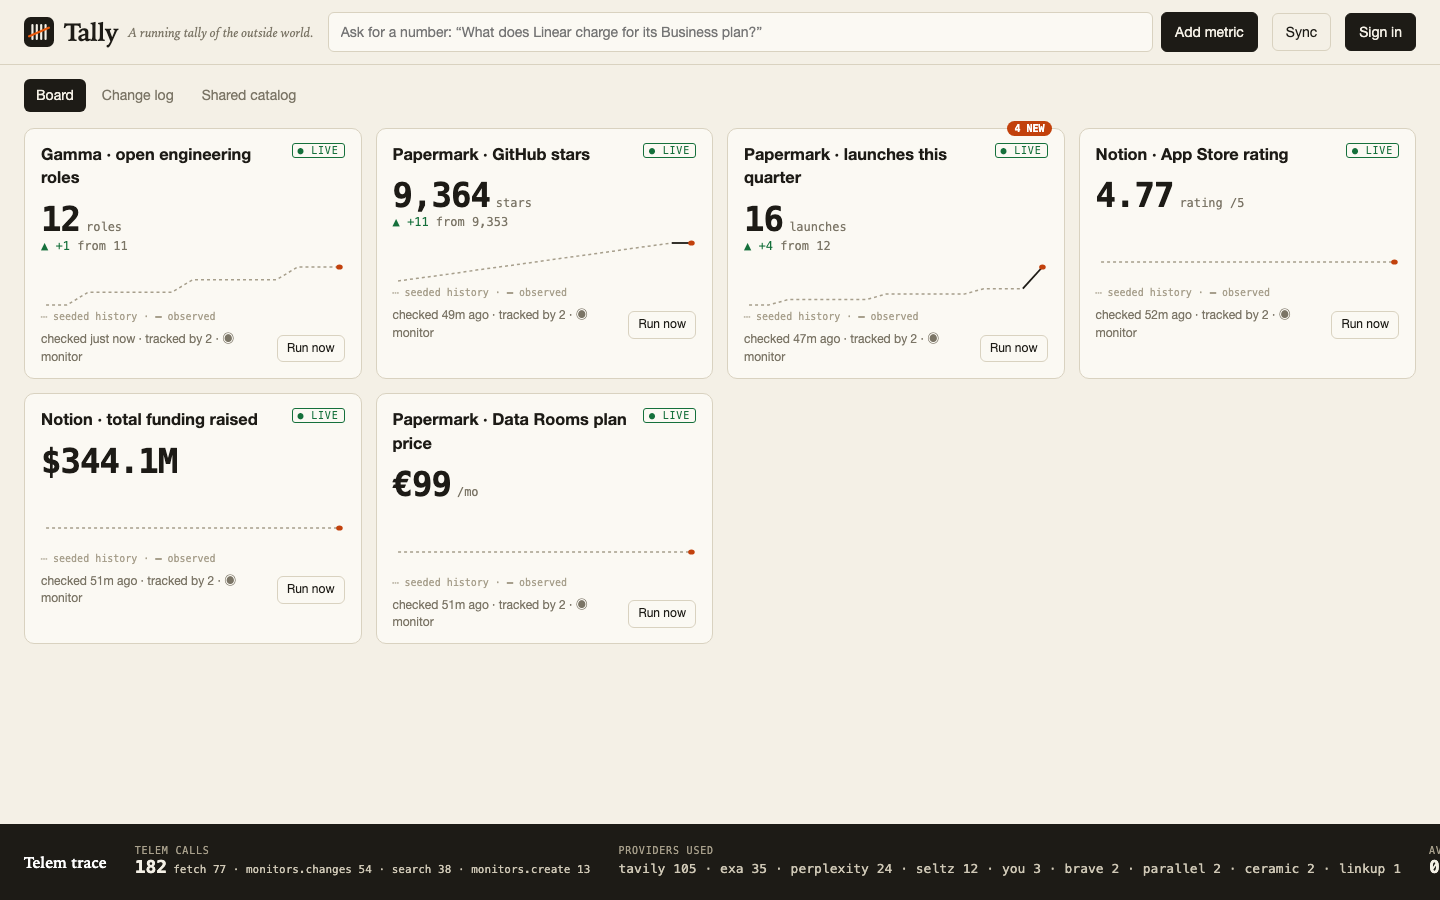
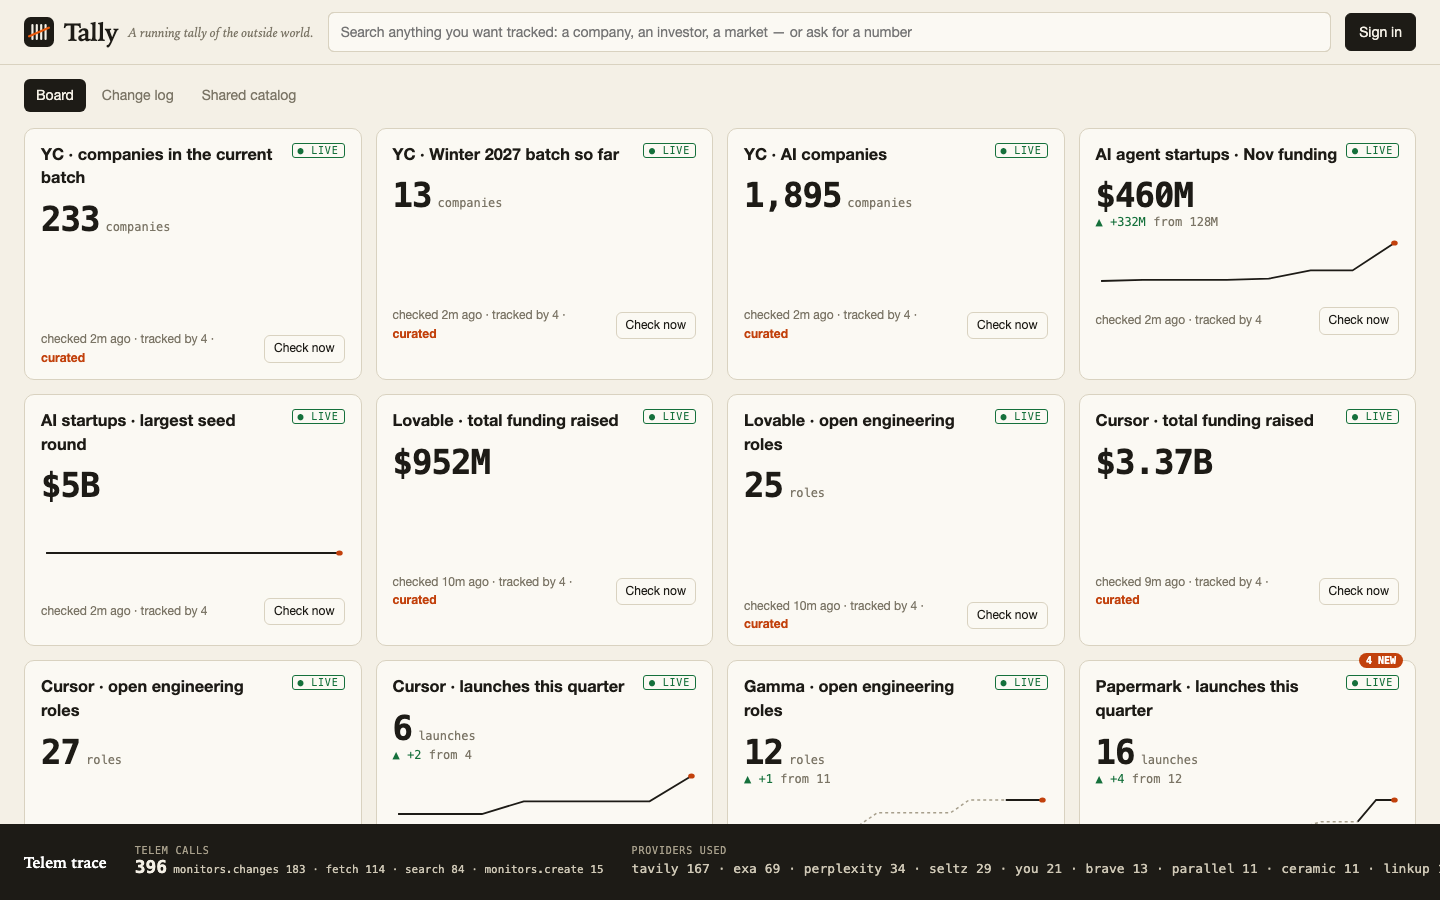
Investor deck, featured board with YC, aggregates and hiring signals

diff --git a/static/deck.html b/static/deck.html
@@ -52,65 +52,64 @@ p.big{font-size:27px;line-height:1.4;color:#4a463c;max-width:30em;margin:0}
 <body>
 <div id="stage">
 
-<section class="slide" data-notes="0:00 — Hi, I'm Verky. This is Tally: a running tally of the outside world.">
-  <div style="margin-top:110px"><span class="marks"><i></i><i></i><i></i><i></i></span>
+<section class="slide" data-notes="0:00 — This is Tally: a running tally of the outside world. One shared, always-current catalog of numbers about companies and markets.">
+  <div style="margin-top:100px"><span class="marks"><i></i><i></i><i></i><i></i></span>
   <h1>Tally</h1>
   <p class="big" style="margin-top:22px;font:italic 36px var(--serif);color:var(--ink)">A running tally of the outside world.</p>
-  <p class="big" style="margin-top:34px">Ask for a number about a company. Get a live tile, with evidence, that everyone can reuse.</p></div>
+  <p class="big" style="margin-top:34px">One shared, always-current catalog of numbers about companies and markets. Ask once; everyone who cares gets it, with the evidence.</p></div>
   <div class="foot"><span>SearchHack · Nov 14, 2026</span><span>Built on Telem AI + Tavily</span></div>
 </section>
 
-<section class="slide" data-notes="0:10 — Every founder watches competitors by hand: pricing pages, job boards, changelogs, app stores. Tabs and a stale spreadsheet. Scrapers break when a page changes, and counting things from search doesn't work, because search results change every run.">
+<section class="slide" data-notes="0:10 — If you invest at pre-seed, your edge is noticing early: who is hiring, who shipped, who just raised, how big the new YC batch is. Today that is tabs, newsletters and a spreadsheet. Founders do the same for competitors. The tools that exist alert one user about one page, and they are known for false alarms.">
   <div class="eyebrow">The problem</div>
-  <h2>Founders track the outside world <em>by hand</em>.</h2>
+  <h2>Investors and founders track the outside world <em>by hand</em>.</h2>
   <div class="cols c3">
-    <div class="card"><span class="n">Today</span><b>Twelve tabs and a spreadsheet</b><p>Pricing pages, job boards, changelogs, app stores. Checked when someone remembers. Stale by Friday.</p></div>
-    <div class="card"><span class="n">Scrapers</span><b>Break on every redesign</b><p>One selector per page, per number. Nobody maintains them, and they can't count things spread across the web.</p></div>
-    <div class="card"><span class="n">Search</span><b>Results change run to run</b><p>“How many open roles?” is not the length of one result list. Ask twice, get two answers.</p></div>
+    <div class="card"><span class="n">Angels and pre-seed funds</span><b>Pipeline and portfolio in tabs</b><p>Who is hiring, who shipped, who raised, how the new batch looks. Checked when someone remembers.</p></div>
+    <div class="card"><span class="n">Founders</span><b>Competitors in a spreadsheet</b><p>Prices, open roles, launches, ratings. Stale by Friday, and nobody trusts the last edit.</p></div>
+    <div class="card"><span class="n">Today's tools</span><b>One page, one user, false alarms</b><p>Scheduled AI tasks and page watchers re-find the same number for every user, and cannot count or add things up.</p></div>
   </div>
   <div class="foot"><span>Tally</span><span>2</span></div>
 </section>
 
-<section class="slide" data-notes="0:30 — With Tally you type a question and get a tile: the value, the change, the history, and when it was last checked. This board is live.">
+<section class="slide" data-notes="0:30 — With Tally you type anything: a company, an accelerator, a question. You get tiles with the value, the change, the history and when it was last checked. This board is live.">
   <div class="eyebrow">The product</div>
-  <h2>Type a question. Get a tile that stays current.</h2>
-  <div class="shot"><img src="/static/img/board.png" alt="Tally board with six live tiles"></div>
-  <div class="foot"><span>Live board · six tiles, each re-checked hourly by a Telem monitor</span><span>3</span></div>
+  <h2>Type anything. Get numbers that stay current.</h2>
+  <div class="shot"><img src="/static/img/board.png" alt="Tally board"></div>
+  <div class="foot"><span>Live board · every tile opens to its source, its recipe and its Telem trace</span><span>3</span></div>
 </section>
 
-<section class="slide" data-notes="0:45 — Two kinds of metric. Direct: one value read from one page, stored with the quote. Count: a ledger of entries, each stored once by its URL. The count is the size of the ledger, so a new entry is a change you can see and open. If the value isn't on the page, the tile says no value yet. We never guess.">
+<section class="slide" data-notes="0:45 — Every number is a recipe: gather evidence, read fields, reduce to one number. Read one value. Count a ledger of entries. Or add up, average or take the largest across many entries. These three are live from the catalog right now. If a value is not on the page, the tile says no value yet. We never guess.">
   <div class="eyebrow">What's new here</div>
-  <h2>Counts come from a <em>ledger</em>, not a result list.</h2>
-  <div class="cols c2">
-    <div class="card"><span class="n">direct</span><b>One value, one source, one quote</b><p>A price, a rating, a star count, a funding total.</p>
-      <div class="num" style="margin-top:22px" id="d-val">9,364<small>stars</small></div><div class="lab">source: api.github.com · read via Telem Fetch</div></div>
-    <div class="card"><span class="n">count</span><b>Entries stored once, by URL</b><p>Open roles, product launches. A new entry is a visible change.</p>
-      <ul class="ledger"><li class="new">+ AI Engineer &nbsp;<b style="display:inline;font:700 16px var(--mono);color:var(--accent)">NEW</b></li><li>Software Engineer, Platform</li><li>Site Reliability Engineer</li><li style="color:var(--mute)">… 10 more, each with its link</li></ul></div>
+  <h2>Every number is a <em>recipe</em>: gather, read, reduce.</h2>
+  <div class="cols c3">
+    <div class="card"><span class="n">read one value</span><b>YC companies in the current batch</b><div class="num" style="margin-top:18px" data-m="YC · companies in the current batch">—</div><div class="lab">from the open YC directory, by a curated skill</div></div>
+    <div class="card"><span class="n">count a ledger</span><b>Cursor open engineering roles</b><div class="num" style="margin-top:18px" data-m="Cursor · open engineering roles">—</div><div class="lab">one entry per posting URL; a new one is a visible change</div></div>
+    <div class="card"><span class="n">add up across entries</span><b>AI agent startup funding, this month</b><div class="num" style="margin-top:18px" data-m="AI agent startups · Nov funding">—</div><div class="lab">sum of announced rounds, each with its link</div></div>
   </div>
-  <div class="foot"><span>If the value isn't on the page, the tile says “no value yet”. Tally never guesses.</span><span>4</span></div>
+  <div class="foot"><span>Counts and sums come from a stored ledger, never from the size of one search result. No value on the page means “no value yet”.</span><span>4</span></div>
 </section>
 
-<section class="slide" data-notes="1:00 — LIVE DEMO, about 80 seconds. (1) Board for user A. (2) Switch to user B, ask the Gamma roles question in different words: matched, history included, tracked by 2, zero new Telem calls. (3) Ask a brand-new question: Telem finds the source. (4) Run now on Gamma roles: 12 becomes 13, the new entry is highlighted. (5) Sync, open the change log: this run, plus what the Telem monitors found. (6) Trace panel.">
+<section class="slide" data-notes="1:00 — LIVE DEMO, about 80 seconds. (1) My board: YC batch, sector funding, hiring at companies I watch. (2) Type two letters, Tab, Enter: a company pack arrives at once because the catalog already has it. (3) Open a tile: source, recipe, Telem trace. (4) Check now on Gamma roles: 12 becomes 13, new entry highlighted. (5) Change log: what Telem monitors found on their own. (6) Trace panel.">
   <div class="eyebrow">Live demo</div>
   <h2>Six steps, eighty seconds.</h2>
   <div class="cols c3">
-    <div class="card"><span class="n">1 · Board</span><p>Six live tiles for founder A.</p></div>
-    <div class="card"><span class="n">2 · Match</span><p>Founder B asks the same thing in other words. Instant tile, full history, “tracked by 2”.</p></div>
-    <div class="card"><span class="n">3 · Create</span><p>A new question. Telem finds the source and the tile appears.</p></div>
-    <div class="card"><span class="n">4 · Run now</span><p>The count goes from 12 to 13. The new entry is highlighted.</p></div>
-    <div class="card"><span class="n">5 · Change log</span><p>That change, plus what Telem monitors found today.</p></div>
+    <div class="card"><span class="n">1 · Board</span><p>An investor's board: batch size, sector funding, hiring and launches.</p></div>
+    <div class="card"><span class="n">2 · One box</span><p>Type two letters. The catalog answers at once; a whole company pack is one click.</p></div>
+    <div class="card"><span class="n">3 · Open method</span><p>Source, recipe and the Telem trace behind any number.</p></div>
+    <div class="card"><span class="n">4 · Check now</span><p>A count goes from 12 to 13. The new entry is highlighted with its link.</p></div>
+    <div class="card"><span class="n">5 · Change log</span><p>What Telem monitors found today, without anyone pressing a button.</p></div>
     <div class="card"><span class="n">6 · Trace</span><p>Providers, latency, estimated cost, calls saved by sharing.</p></div>
   </div>
   <div class="foot"><span class="url" id="demo-url">/app</span><span>5</span></div>
 </section>
 
-<section class="slide" data-notes="2:20 — Telem is the engine. Search finds sources and entries, auto-routed across providers with Tavily pinned on every entry search. Fetch reads the pages. Monitors re-check hourly and we page their change feed into the change log. These numbers are live from the app's trace log.">
+<section class="slide" data-notes="2:20 — Telem is the engine. Search finds sources and entries, auto-routed across providers with Tavily pinned on every entry search. Fetch reads the pages. Monitors re-check hourly and the server reads their change feed every minute. These numbers are live from the trace log.">
   <div class="eyebrow">Telem is the engine</div>
   <h2>Search finds it. Fetch reads it. Monitors watch it.</h2>
   <div class="flow">
     <div class="card"><span class="n">Telem Search</span><p>Auto-routing picks providers per query. Tavily pinned on every entry search.</p></div>
-    <div class="card"><span class="n">Telem Fetch</span><p>Reads the source pages. Claude extracts the value and the quote.</p></div>
-    <div class="card"><span class="n">Telem Monitors</span><p>Hourly agent per metric. Its change feed fills the change log.</p></div>
+    <div class="card"><span class="n">Telem Fetch</span><p>Reads the source pages. Claude extracts values and entries, guided by a source skill.</p></div>
+    <div class="card"><span class="n">Telem Monitors</span><p>Hourly agent per metric. Its change feed fills the change log by itself.</p></div>
   </div>
   <div class="cols c4">
     <div class="card dark"><div class="num" id="t-calls">—</div><div class="lab">Telem calls</div></div>
@@ -121,24 +120,35 @@ p.big{font-size:27px;line-height:1.4;color:#4a463c;max-width:30em;margin:0}
   <div class="foot"><span>Numbers read live from the app's trace log. Cost is estimated from provider list prices.</span><span>6</span></div>
 </section>
 
-<section class="slide" data-notes="2:40 — The business is the shared catalog. Ten founders tracking the same price cost one refresh, not ten. Every question makes the catalog more complete and each user cheaper to serve. Exploring is free; adding and tracking is the paid plan.">
-  <div class="eyebrow">Why this is a company</div>
-  <h2>The catalog is the business: <em>one refresh</em> serves everyone.</h2>
+<section class="slide" data-notes="2:35 — Why this is a company. The catalog compounds. Every question makes it more complete, every follower makes each number cheaper, and history only exists for whoever started tracking first. Feedback from followers fixes the shared recipe, so accuracy improves with use.">
+  <div class="eyebrow">Why this compounds</div>
+  <h2>The catalog is the asset: <em>one refresh</em> serves everyone.</h2>
   <div class="cols c3">
-    <div class="card dark"><div class="num" id="v-metrics">—</div><div class="lab">metrics in the shared catalog</div><p style="margin-top:14px">Ask once, anyone can reuse it with its history.</p></div>
-    <div class="card dark"><div class="num" id="v-saved">—</div><div class="lab">Telem calls saved by sharing</div><p style="margin-top:14px">Followers beyond the first ride on the same refresh.</p></div>
-    <div class="card"><span class="n">Model</span><b>Free to explore, pay to track</b><p>Cost per user falls as the catalog grows. The ledgers and histories are data nobody else has.</p></div>
+    <div class="card dark"><div class="num" id="v-metrics">—</div><div class="lab">metrics in the shared catalog, day one</div><p style="margin-top:14px">Ask once; anyone reuses it with its history.</p></div>
+    <div class="card dark"><div class="num" id="v-saved">—</div><div class="lab">Telem calls saved by sharing</div><p style="margin-top:14px">Cost per user falls as followers per metric rise.</p></div>
+    <div class="card"><span class="n">Moat</span><b>History and curation</b><p>A time series cannot be bought later. Follower feedback corrects the shared recipe, so the catalog gets more accurate with use.</p></div>
   </div>
-  <div class="foot"><span>Next: alerts, team boards, an API for agents that need a trusted number.</span><span>7</span></div>
+  <div class="foot"><span>Per-user alert tools pay the full search cost for every user and keep no shared history.</span><span>7</span></div>
 </section>
 
-<section class="slide" data-notes="2:55 — That's Tally. Ask for a number, keep it current. Thank you.">
-  <div style="margin-top:130px"><span class="marks"><i></i><i></i><i></i><i></i></span>
+<section class="slide" data-notes="2:45 — Who pays and how we reach them. Angels, scouts and pre-seed funds first; founders and sales teams next. The recipes are open source, which is distribution; the product is the hosted runtime: always-on refresh, the shared catalog, the history. It is live today with Google sign-in and Stripe.">
+  <div class="eyebrow">Market and model</div>
+  <h2>Open recipes for reach. A hosted runtime to pay for.</h2>
+  <div class="cols c3">
+    <div class="card"><span class="n">Who</span><b>People paid to notice early</b><p>Angels, scouts and pre-seed funds watching pipeline and portfolio. Then founders on competitors, and sales on accounts.</p></div>
+    <div class="card"><span class="n">Model</span><b>Free to read, Pro for live</b><p>Anyone searches the catalog. $19 a month makes every number live and creation unlimited. Team boards and an API come next.</p></div>
+    <div class="card"><span class="n">Go to market</span><b>Open source, MIT</b><p>Recipes and skills are public and forkable. The runtime, the catalog and its history are the product. Live today with sign-in and billing.</p></div>
+  </div>
+  <div class="foot"><span>tallycatalog.com · github.com/verkyyi/tally</span><span>8</span></div>
+</section>
+
+<section class="slide" data-notes="2:55 — That's Tally. Ask for a number, keep it current. We are looking for angels and pre-seed funds as design partners. Thank you.">
+  <div style="margin-top:110px"><span class="marks"><i></i><i></i><i></i><i></i></span>
   <h1>Ask for a number.<br><em>Keep</em> it current.</h1>
-  <p class="url" style="margin-top:40px" id="end-url"></p>
-  <p class="big" style="margin-top:10px;font-size:22px">github.com/verkyyi/tally</p>
-  <p style="margin-top:34px;font:600 26px var(--mono)"><span id="f-metrics">—</span> metrics tracked · <span id="f-mon">—</span> changes found by Telem monitors · <span id="f-cost">—</span> est. search cost</p></div>
-  <div class="foot"><span>Tally · SearchHack 2026</span><span>Thank you</span></div>
+  <p class="url" style="margin-top:36px" id="end-url"></p>
+  <p style="margin-top:30px;font:600 26px var(--mono)"><span id="f-metrics">—</span> metrics tracked · <span id="f-mon">—</span> changes found by Telem monitors · <span id="f-cost">—</span> est. search cost</p>
+  <p class="big" style="margin-top:22px;font-size:24px">Looking for angels and pre-seed funds as design partners.</p></div>
+  <div class="foot"><span>Tally · SearchHack 2026 · github.com/verkyyi/tally</span><span>Thank you</span></div>
 </section>
 
 </div>
@@ -162,6 +172,8 @@ const host=location.host; document.getElementById("demo-url").textContent=host+"
   const $=id=>document.getElementById(id), provs=Object.keys(t.by_provider);
   $("t-calls").textContent=t.calls; $("t-prov").textContent=provs.length; $("t-provs").textContent=provs.join(" · ");
   $("t-lat").innerHTML=(t.avg_latency_ms/1000).toFixed(1)+"<small>s</small>"; $("t-cost").textContent="$"+t.est_search_cost.toFixed(2);
+  const fm=(v,u)=>{const usd=/^usd/i.test(u||""), a=Math.abs(v), t=x=>String(+x.toFixed(2)); return (usd?"$":"")+(a>=1e9?t(v/1e9)+"B":a>=1e6?t(v/1e6)+"M":v.toLocaleString("en-US",{maximumFractionDigits:2}))};
+  document.querySelectorAll("[data-m]").forEach(e=>{const m=c.find(x=>x.title==e.dataset.m); if(m&&m.value!=null) e.textContent=fm(m.value,m.unit)});
   $("v-metrics").textContent=c.length; $("f-metrics").textContent=t.metrics; $("f-mon").textContent=t.monitor_changes; $("f-cost").textContent="$"+t.est_search_cost.toFixed(2); $("v-saved").textContent=t.calls_saved_by_sharing;
 }catch(e){}})();
 </script>
